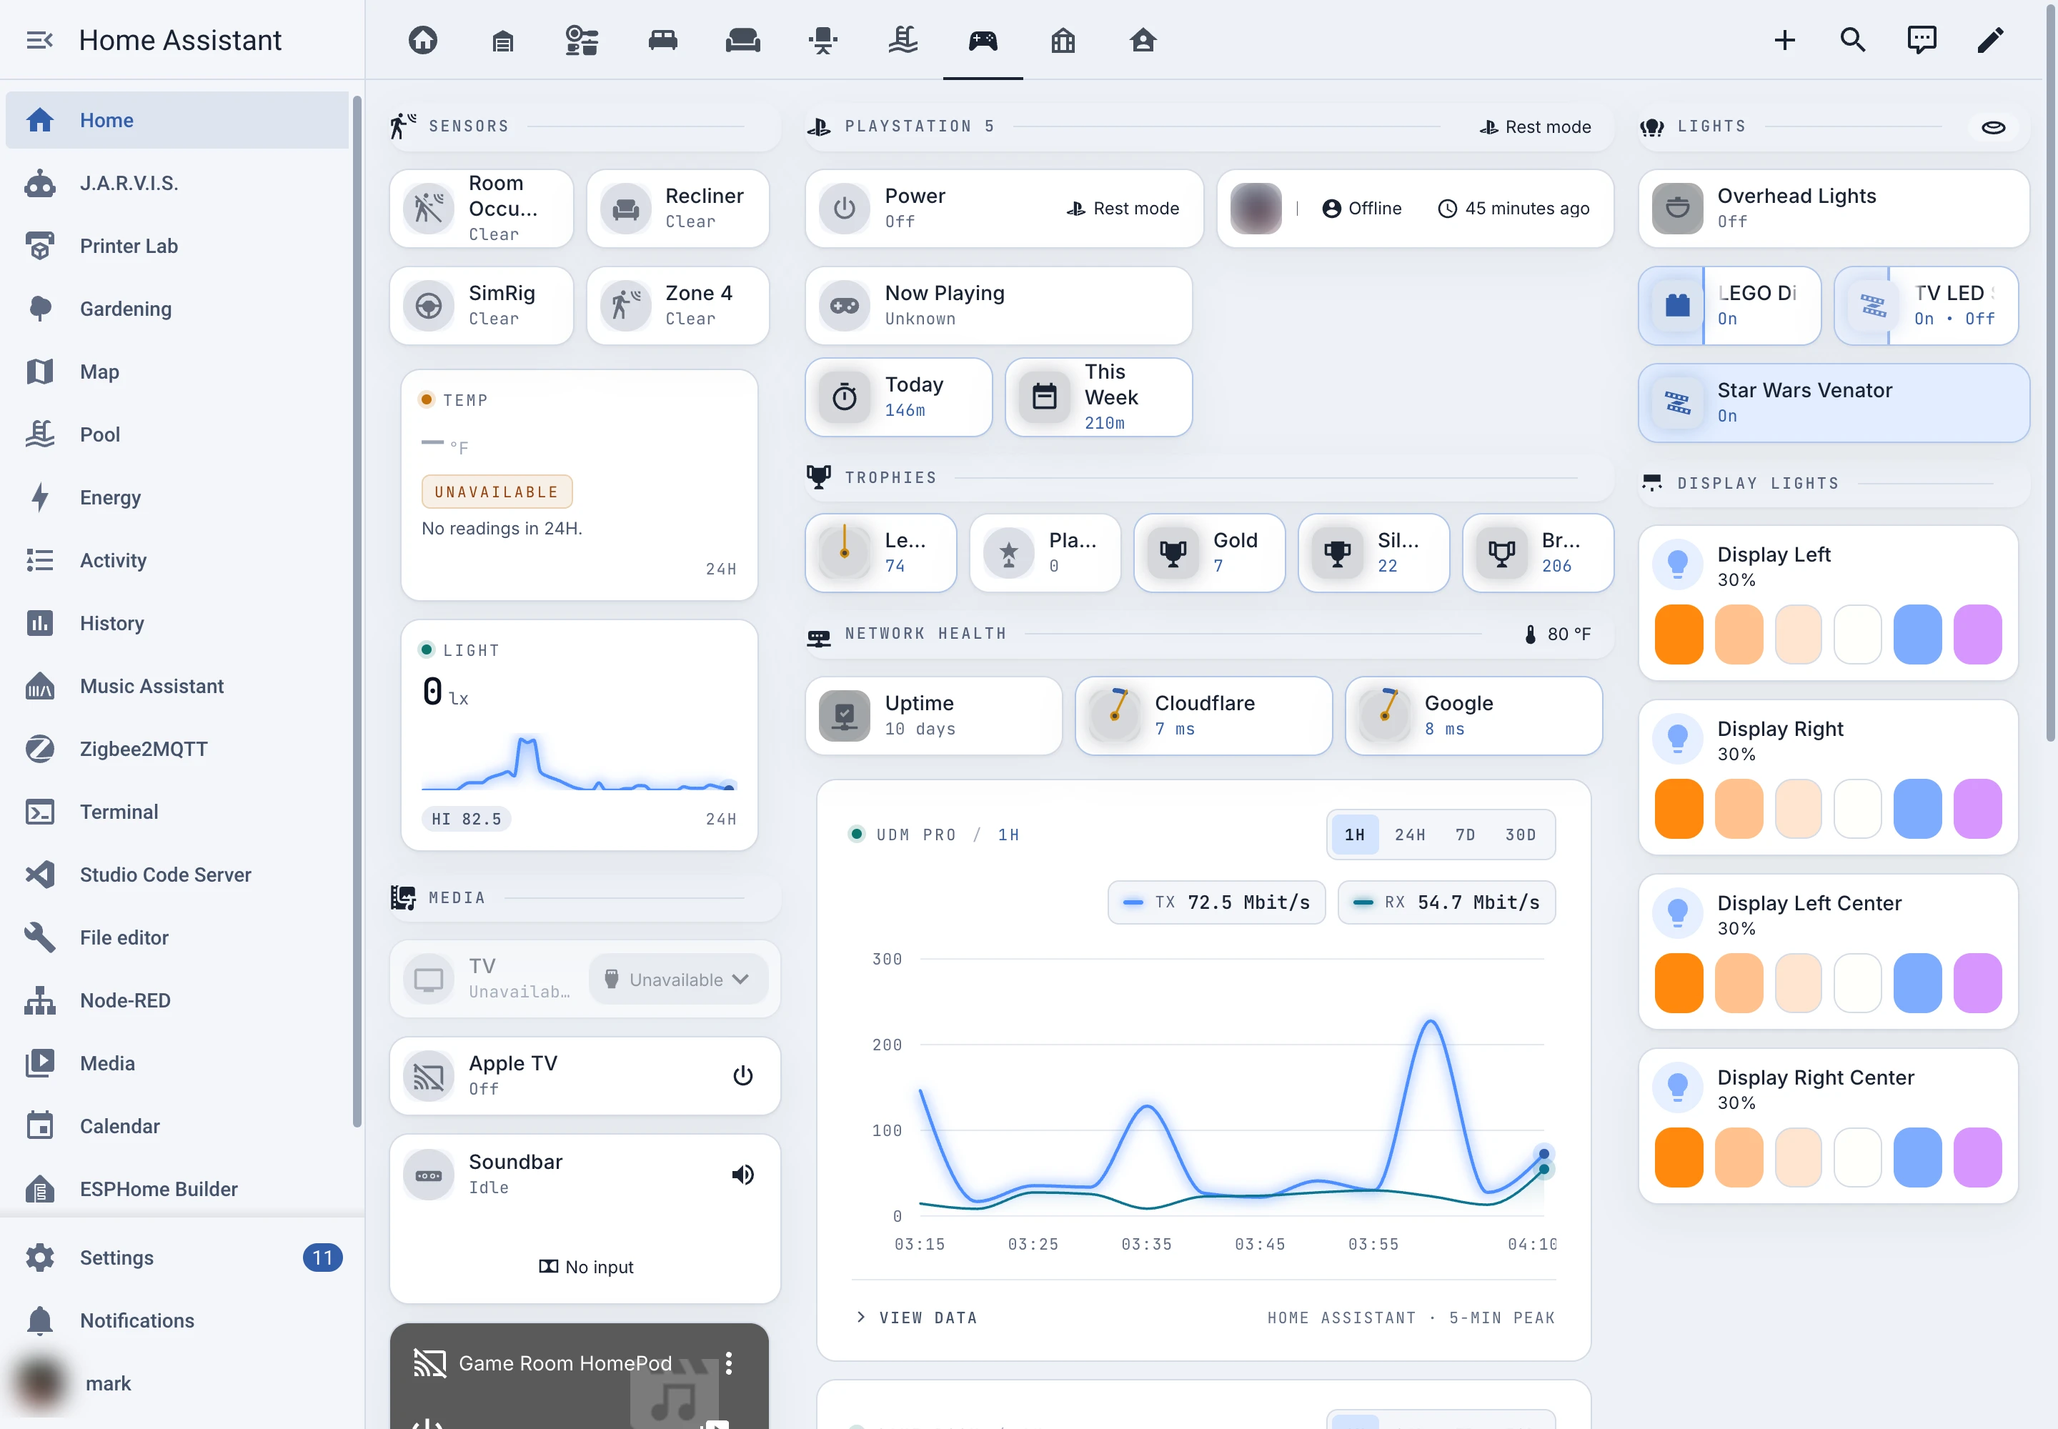
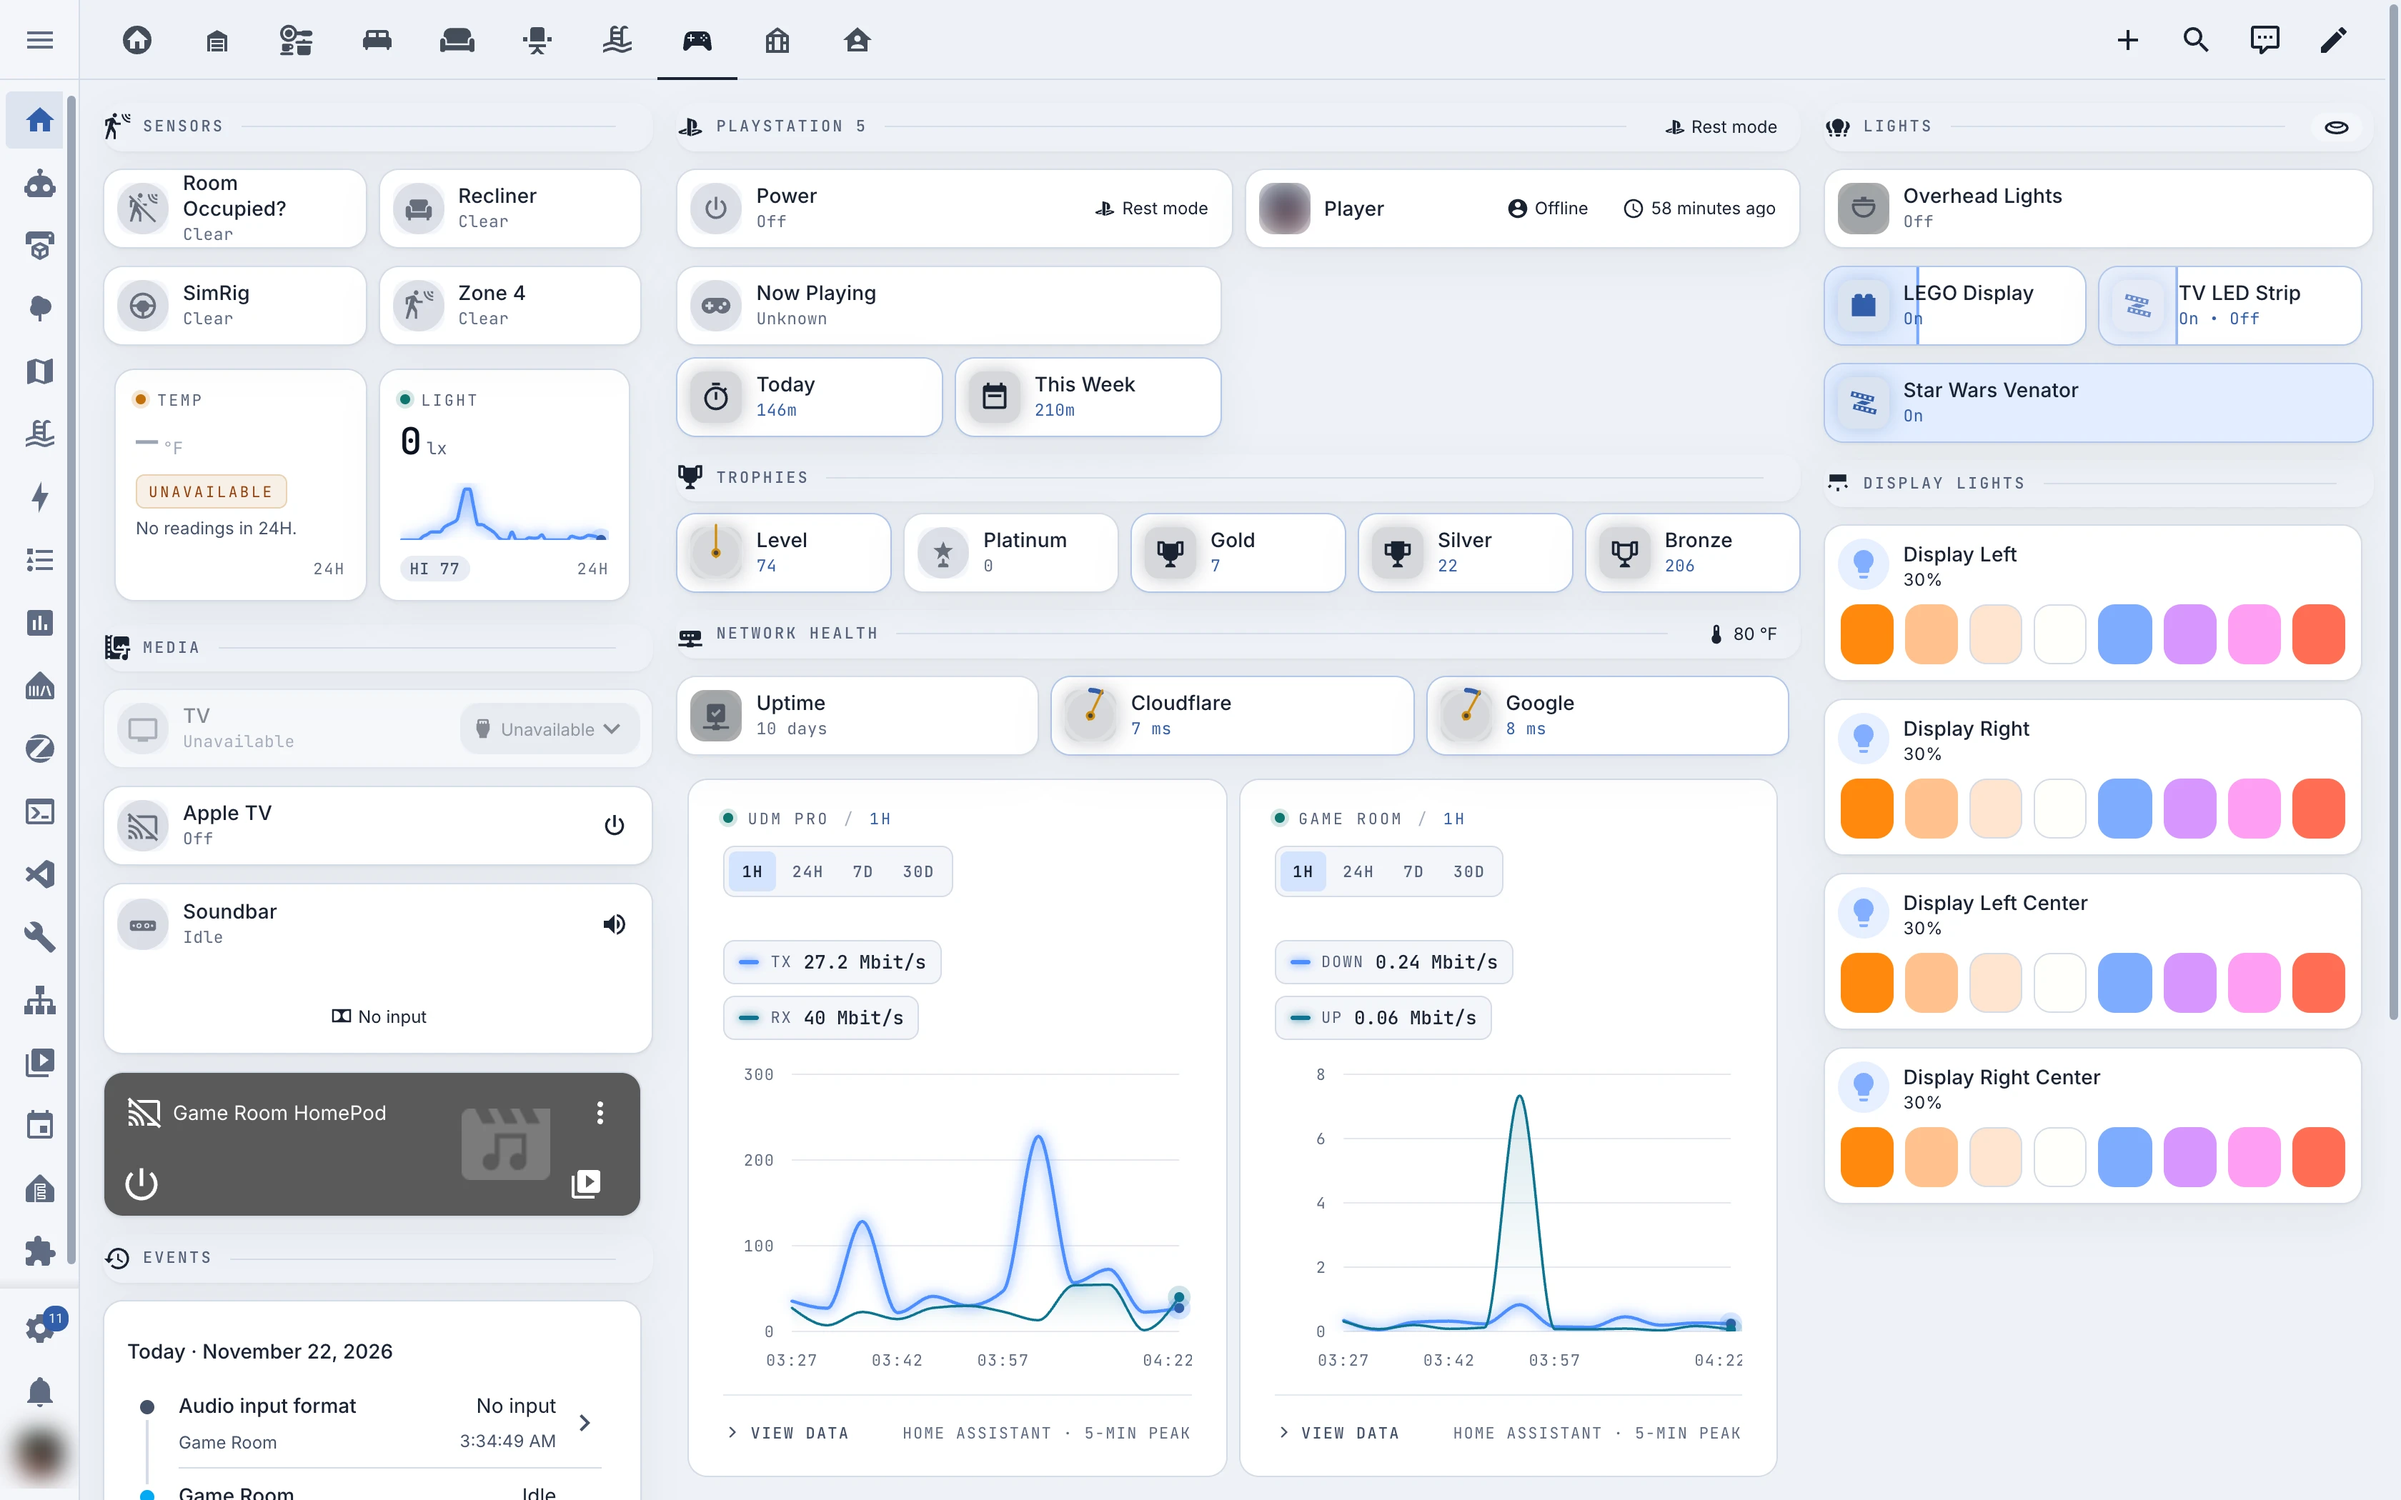
Retake the screenshots wider, with the sidebar collapsed
The dashboard shots now use a 1680x1050 window at 2x with Home
Assistant's sidebar collapsed to its icon strip, so the cards get the
room and labels aren't cut off. A new Settings pair shows the sidebar
open, so the theme is shown on Home Assistant's own pages too.
Version 1.0.1; the theme itself is unchanged.

diff --git a/README.md b/README.md
@@ -13,8 +13,8 @@ optional Bubble Card module that finishes the look.
 ## Screenshots
 
 Dark and light, on a real home: Bubble Card buttons and separators with the module,
-and Home Assistant's own cards. The charts are a separate custom card, not part of
-this theme.
+Home Assistant's own cards, and its sidebar and settings. The charts are a separate
+custom card, not part of this theme.
 
 **Office**
 
@@ -31,6 +31,10 @@ this theme.
 **3D printer**
 
 <img width="49%" alt="3D printer, dark" src="assets/printer-dark.webp" /> <img width="49%" alt="3D printer, light" src="assets/printer-light.webp" />
+
+**Settings, with the sidebar open**
+
+<img width="49%" alt="Settings, dark" src="assets/settings-dark.webp" /> <img width="49%" alt="Settings, light" src="assets/settings-light.webp" />
 
 ## Install
 

diff --git a/CHANGELOG.md b/CHANGELOG.md
@@ -1,5 +1,10 @@
 # Changelog
 
+## 1.0.1
+
+- New README screenshots: a larger window with the sidebar collapsed on dashboards, and
+  a Settings pair with the sidebar open. The theme itself is unchanged.
+
 ## 1.0.0
 
 - First release: the Instrument theme with dark and light modes for Home Assistant,
